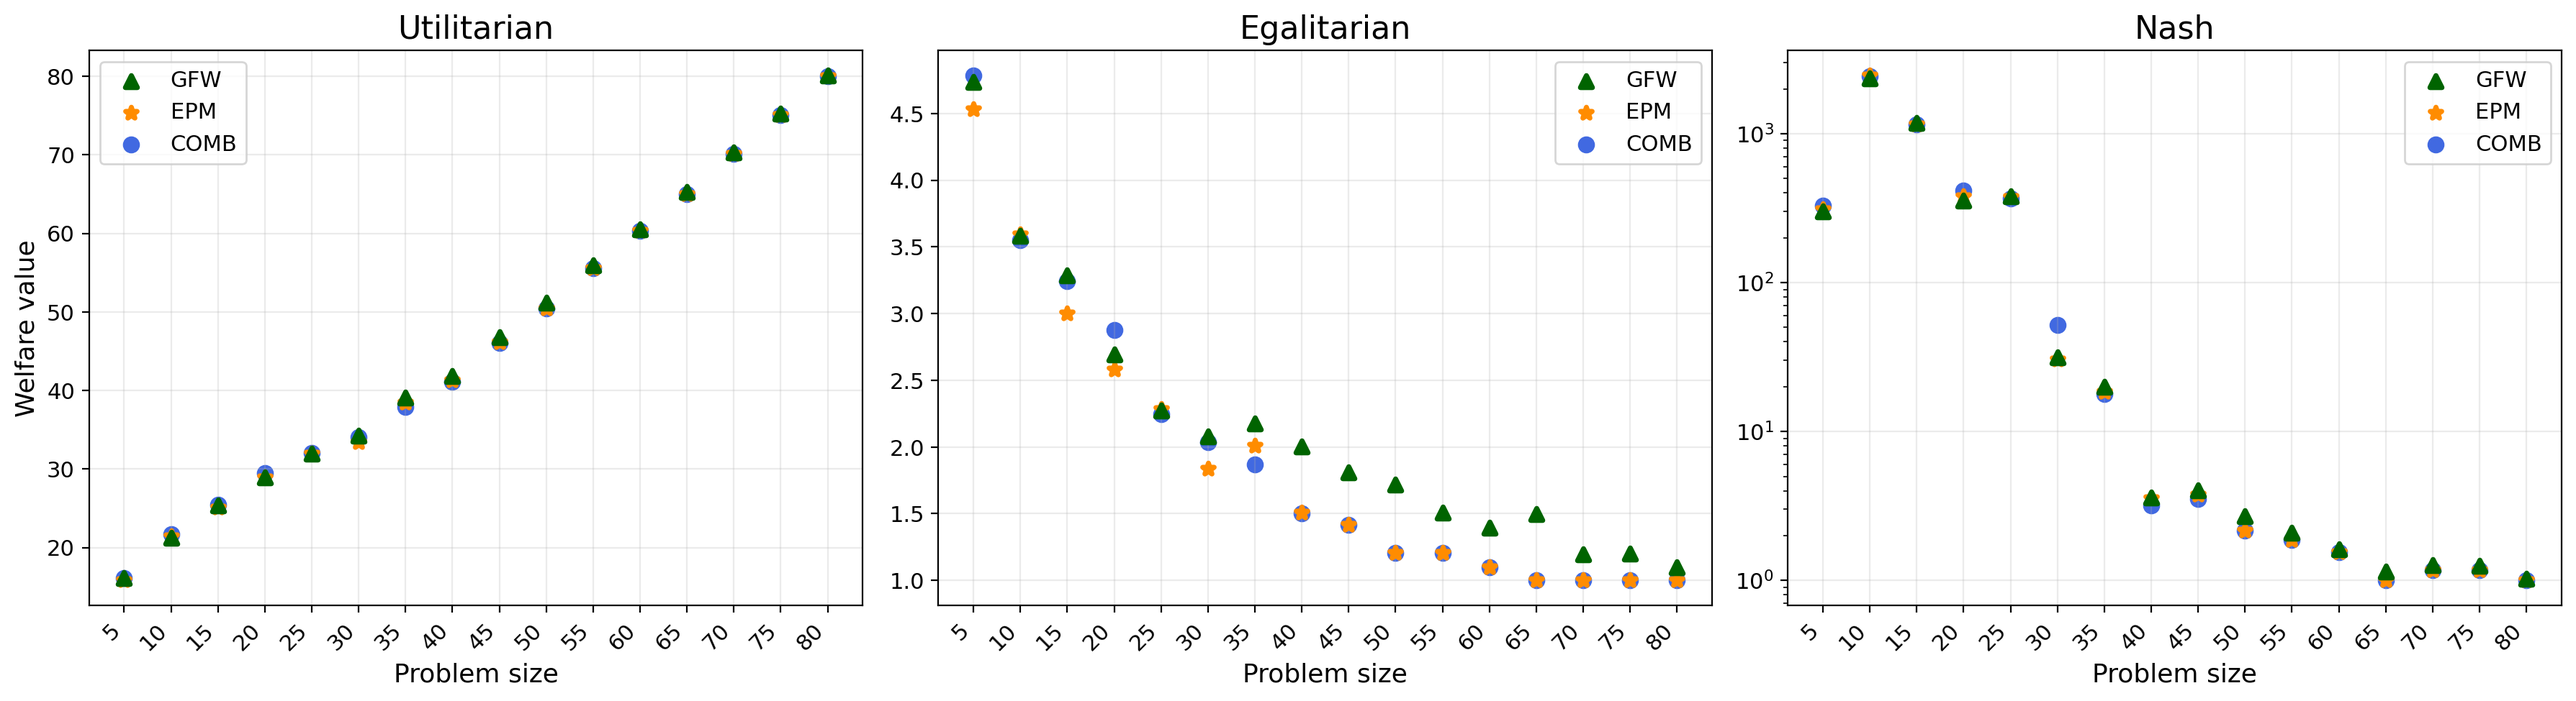
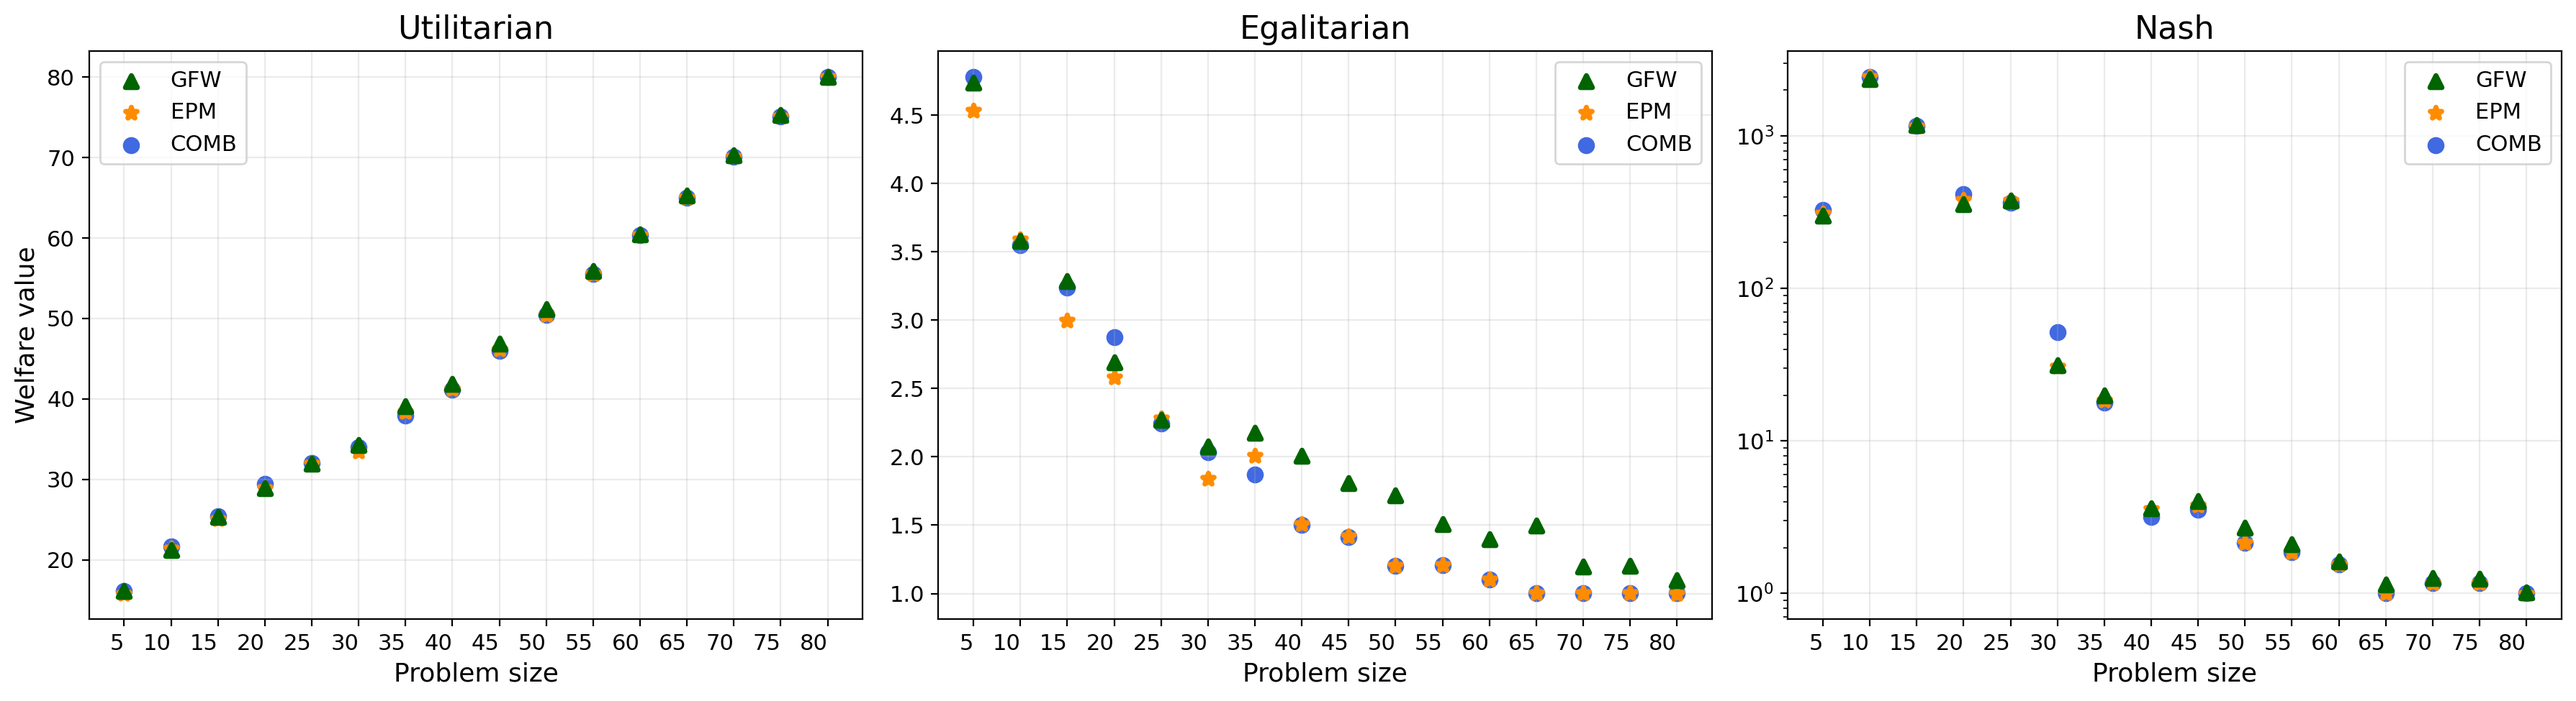
Upload latest code and clean up old outputs

diff --git a/code/run_simulation.py b/code/run_simulation.py
@@ -19,7 +19,7 @@ from combinatorial import combinatorial_metrics
 
 ALGORITHMS = ["GFW", "EPM", "COMB"]
 NUM_SEEDS = 10
-RGM = ["randint10", ]
+RGM = ["uniform", "randint", "lognormal", "truncnormal", "exponential", "randint10"]
 
 def _normalize_algorithms(algorithms=None):
     if algorithms is None:
@@ -105,6 +105,7 @@ def run_GFW_vs_EPM(N, M, random_generating_method='uniform', num_seeds=10, num_i
         'utilitarian_COMB_e': [],
         'egalitarian_COMB_e': [],
         'nash_COMB_e': [],
+        'distant_prices': [],
     }
 
     print(f"-*-*-*- SIZE: {N}*{M} -*-*-*-")
@@ -150,23 +151,25 @@ def run_GFW_vs_EPM(N, M, random_generating_method='uniform', num_seeds=10, num_i
         if res_GFW[3] and res_GFW[6] is not None:
             if res_EPM[3] and res_EPM[6] is not None:
                 if res_COMB[3] and res_COMB[6] is not None:
-                    _, _, u_gfw = res_GFW[6]
+                    p_gfw, x_gfw, u_gfw = res_GFW[6]
                     util, egal, nash = _compute_welfare_from_utilities(u_gfw)
                     welfare_data['utilitarian_GFW_e'].append(util)
                     welfare_data['egalitarian_GFW_e'].append(egal)
                     welfare_data['nash_GFW_e'].append(nash)
                 
-                    _, _, u_epm = res_EPM[6]
+                    p_epm, x_epm, u_epm = res_EPM[6]
                     util, egal, nash = _compute_welfare_from_utilities(u_epm)
                     welfare_data['utilitarian_EPM_e'].append(util)
                     welfare_data['egalitarian_EPM_e'].append(egal)
                     welfare_data['nash_EPM_e'].append(nash)
                 
-                    _, _, u_comb = res_COMB[6]
+                    p_comb, x_comb, u_comb = res_COMB[6]
                     util, egal, nash = _compute_welfare_from_utilities(u_comb)
                     welfare_data['utilitarian_COMB_e'].append(util)
                     welfare_data['egalitarian_COMB_e'].append(egal)
                     welfare_data['nash_COMB_e'].append(nash)
+
+                    welfare_data['distant_prices'].append(np.linalg.norm(p_gfw - p_epm) + np.linalg.norm(p_gfw - p_comb) + np.linalg.norm(p_epm - p_comb))
 
         progress_res = res_EPM if "EPM" in algorithms else res_GFW if "GFW" in algorithms else res_COMB
         if progress_res[3]:  
@@ -300,6 +303,7 @@ def run_GFW_vs_EPM(N, M, random_generating_method='uniform', num_seeds=10, num_i
         'utilitarian_COMB_e': average_std(welfare_data['utilitarian_COMB_e'])[0] if len(welfare_data['utilitarian_COMB_e']) > 0 else None,
         'egalitarian_COMB_e': average_std(welfare_data['egalitarian_COMB_e'])[0] if len(welfare_data['egalitarian_COMB_e']) > 0 else None,
         'nash_COMB_e': average_std(welfare_data['nash_COMB_e'])[0] if len(welfare_data['nash_COMB_e']) > 0 else None,
+        'distant_prices': average_std(welfare_data['distant_prices'])[0] if len(welfare_data['distant_prices']) > 0 else None,
     }
 
     return data_GFW, data_EPM, data_COMB, welfare_summary
@@ -353,6 +357,7 @@ def run_and_save(size_list=[(2, 2), (50, 50), (100, 100)], random_generating_met
         'utilitarian_COMB_e': list(),
         'egalitarian_COMB_e': list(),
         'nash_COMB_e': list(),
+        'distant_prices': list(),
     }
 
     size_string = ""
@@ -413,6 +418,7 @@ def run_and_save(size_list=[(2, 2), (50, 50), (100, 100)], random_generating_met
         welfare_dict['utilitarian_COMB_e'].append(welfare_res['utilitarian_COMB_e'])
         welfare_dict['egalitarian_COMB_e'].append(welfare_res['egalitarian_COMB_e'])
         welfare_dict['nash_COMB_e'].append(welfare_res['nash_COMB_e'])
+        welfare_dict['distant_prices'].append(welfare_res['distant_prices'])
 
         if idx == 0:
             size_string += f"{N}x{M}"
@@ -439,7 +445,8 @@ if __name__ == "__main__":
     # size_list = [(100, 10), (100, 500), (100, 1000), (100, 1500), (100, 2000), (100, 2500), (100, 3000)]  # only GFW can solve these sizes of problems
     # size_list = [(5, 5), (50, 50), (100, 100), (150, 150), (200, 200), (250, 250), (300, 300)]  # GFW, EPM
     # size_list = [(5, 5), (10, 10), (15, 15), (20, 20), (25, 25), (30, 30)]  # GFW, EPM, COMB
-    size_list = [(i, i) for i in range(5, 81, 5)]  # GFW, EPM, COMB
+    # size_list = [(i, i) for i in range(3, 51)]  # GFW, EPM, COMB
+    size_list = [(i, i) for i in range(5, 51, 5)]  # GFW, EPM, COMB
 
     save_dir = "../data"
     current_dir = os.path.dirname(os.path.abspath(__file__))

diff --git a/code/plot_welfare.py b/code/plot_welfare.py
@@ -119,7 +119,7 @@ def plot_welfare(csv_path: Path, output_dir: Path) -> Path:
 
     for ax in axes:
         ax.set_xticks(x)
-        ax.set_xticklabels(x_labels, rotation=45, ha="right")
+        ax.set_xticklabels(x_labels, ha="right")
         ax.tick_params(axis="both", labelsize=11)
         ax.legend(fontsize=11)
 
@@ -151,7 +151,10 @@ def main() -> None:
 
     current_dir = Path(__file__).parent.resolve()
     csv_dir = current_dir / "../data"
-    csv_path = csv_dir / "randint10_5x5.10x10....80x80_welfare_10.csv"
+    # csv_path = csv_dir / "uniform_5x5.10x10....80x80_welfare_10.csv"
+    # csv_path = csv_dir / "exponential_5x5.10x10....80x80_welfare_10.csv"
+    csv_path = csv_dir / "lognormal_5x5.10x10....80x80_welfare_10.csv"
+    # csv_path = csv_dir / "uniform_3x3.4x4....50x50_welfare_1.csv"
     output_dir = current_dir / "../figures"
 
     if not csv_path.exists():
